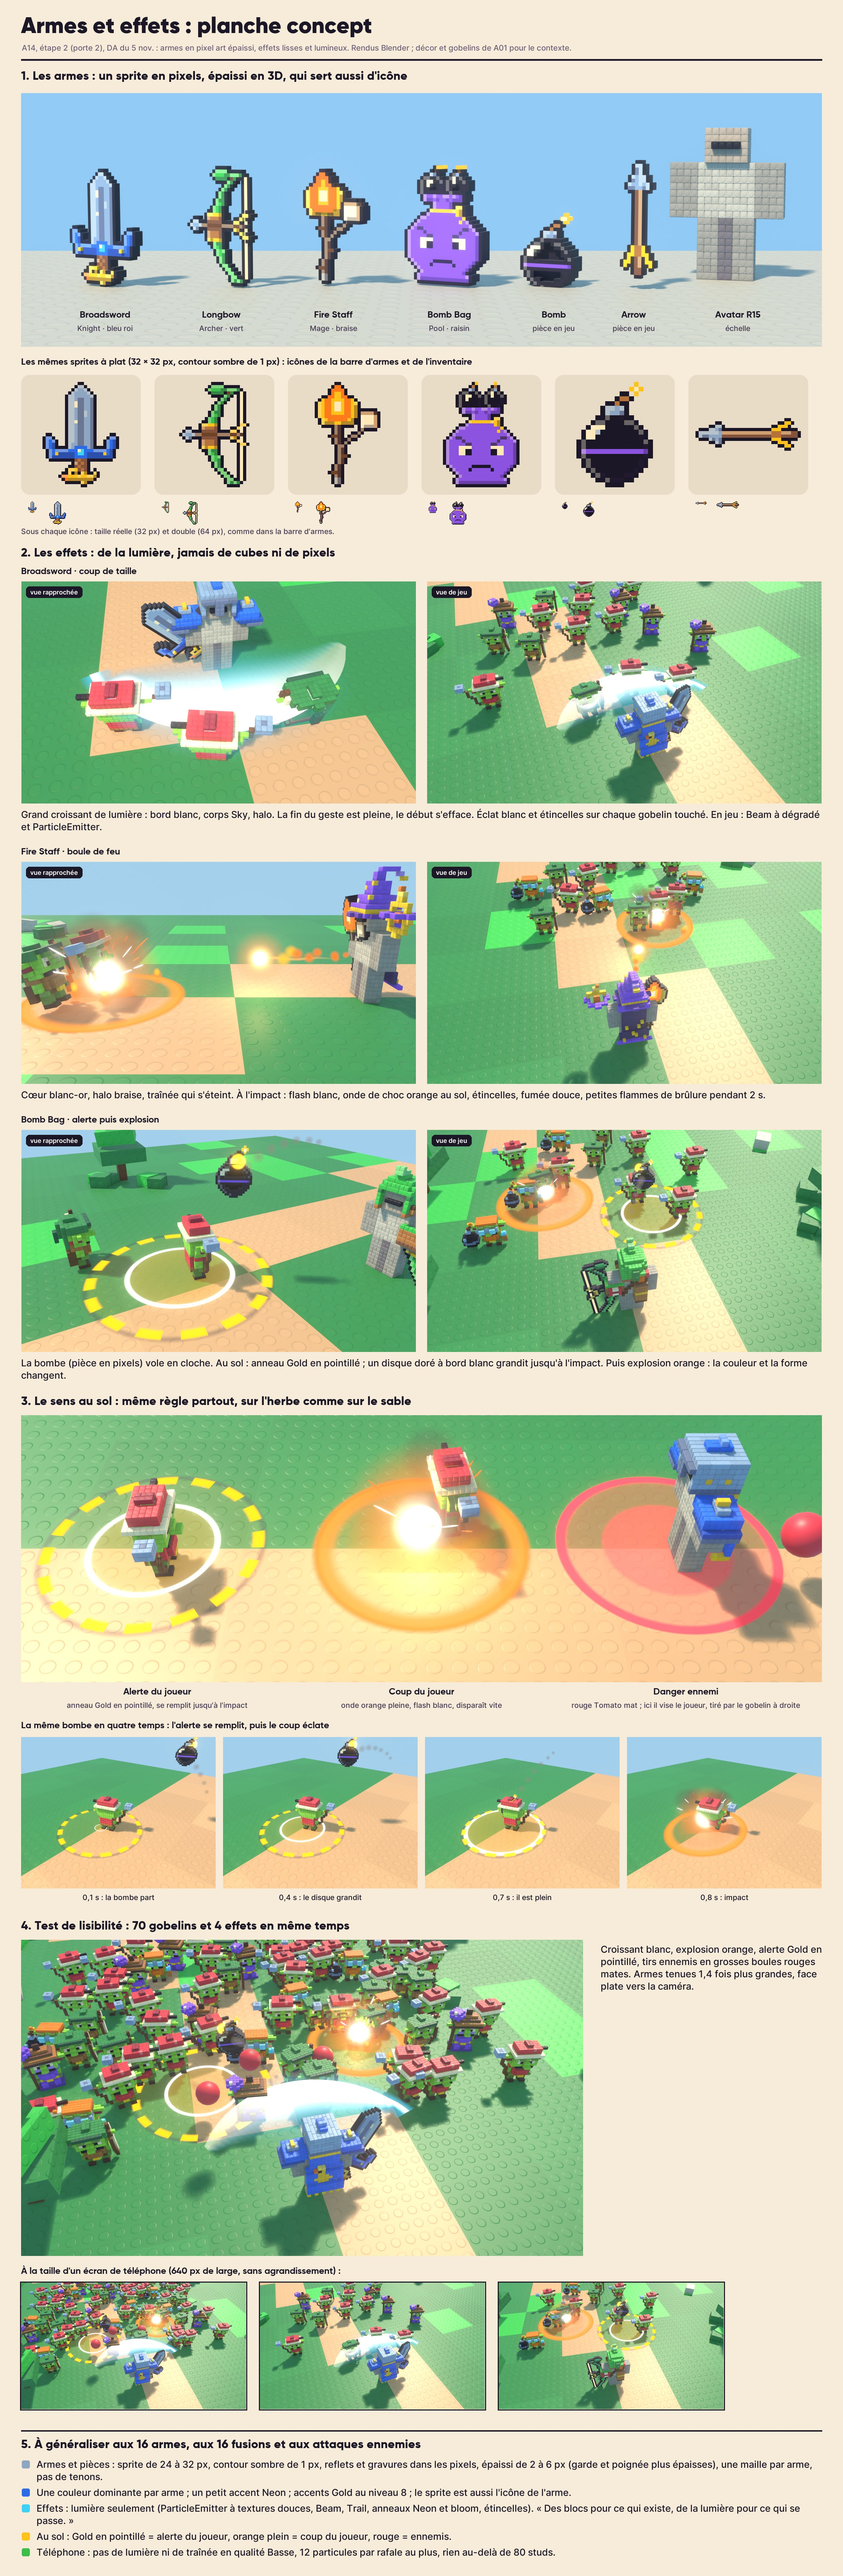
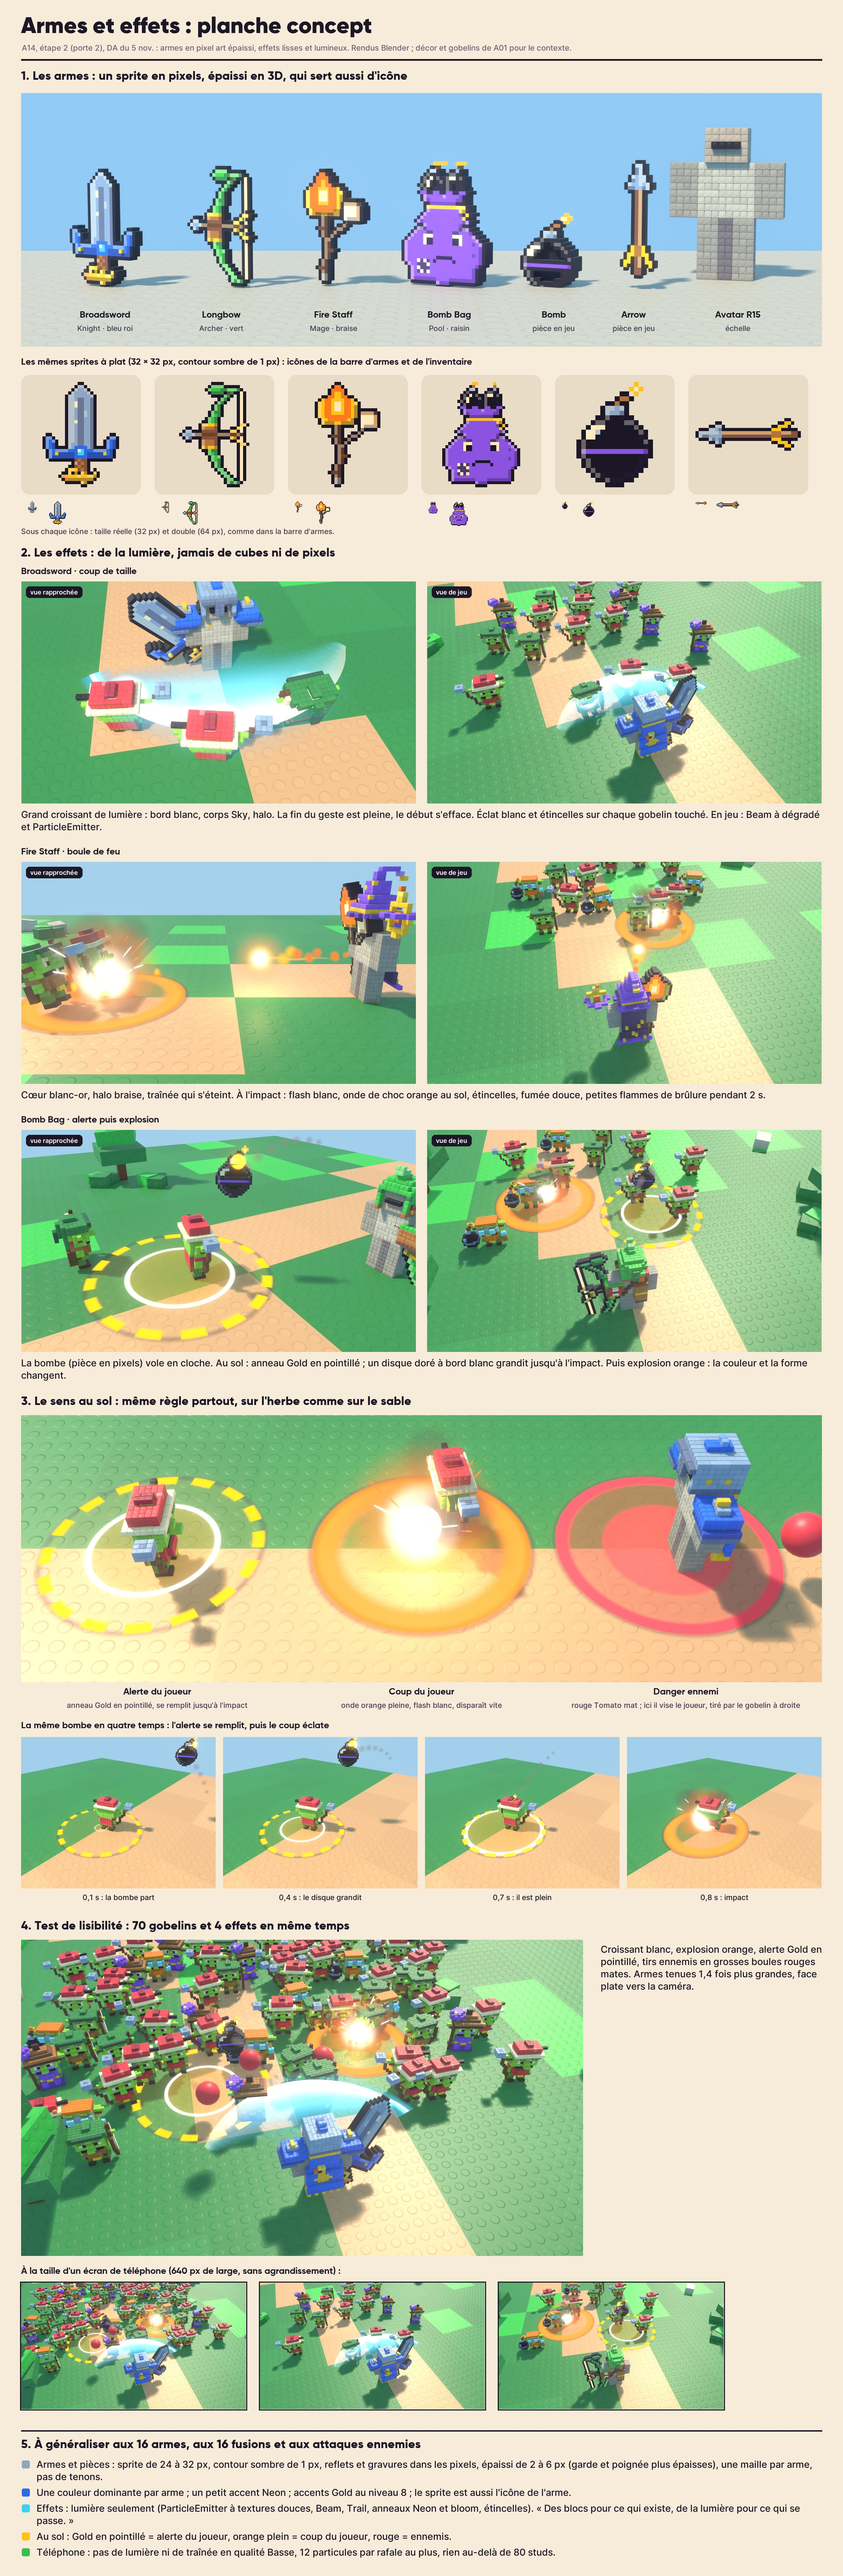
A14 : planche porte 2 corrigée après relecture, icônes d'armes pour A08
Armes tenues plus grandes et face à la caméra, sac de bombes redessiné, croissant
teinté Sky, explosion et danger ennemi cernés de sombre, danger ennemi en rouge
franc avec sa source visible, icônes à taille réelle et vignettes téléphone sur
la planche. Icônes 512 px (trois-quarts et à plat) des 4 armes dans
docs/dossier/ui-assets/icons/weapons/ pour A08.

diff --git a/assets/a14/concept.py b/assets/a14/concept.py
@@ -61,7 +61,7 @@ class Sprite:
         self.fixed: set = set()               # pixels peints à la main : l'ombrage auto n'y touche pas
 
     def set(self, x, y, key, fixed=True):
-        if -1 <= x <= self.w and -1 <= y <= self.h:   # une marge d un pixel pour le contour
+        if -2 <= x <= self.w + 1 and -2 <= y <= self.h + 1:   # une marge d un pixel pour le contour
             self.px[(x, y)] = key
             if fixed:
                 self.fixed.add((x, y))
@@ -268,42 +268,50 @@ def firestaff() -> Sprite:
 
 
 def bombbag() -> Sprite:
-    """Bomb Bag (porteur et icône). Couleur dominante : raisin. Gros sac grognon au col court ficelé d'or,
-    ouverture froncée d'où dépassent deux bombes rondes, mèches Neon."""
+    """Bomb Bag (porteur et icône). Couleur dominante : raisin. Un sac de toile ventru, épaules, col serré
+    par une cordelette d'or, ouverture en pointes de tissu d'où dépassent deux bombes, une pièce cousue,
+    un air grognon (gag)."""
     s = Sprite("BombBag", 32, 32, grip=(16.0, 12.0))
     s.depth.update({"Grape": 5, "Gold": 5, "Ink": 4, "Cream": 5, "Leather": 2, "Plum": 5, "Steel": 4})
-    s.ell(12.5, 5.0, 3.6, 3.6, "Ink")                              # bombes (derrière l'ourlet)
-    s.ell(20.0, 4.5, 3.1, 3.1, "Ink")
-    for (x, y) in ((11, 3), (12, 3), (11, 4), (19, 3), (19, 2)):    # reflets
+    s.ell(12.8, 4.6, 3.4, 3.4, "Ink")                              # bombes, derrière l'ouverture
+    s.ell(19.6, 4.0, 2.9, 2.9, "Ink")
+    for (x, y) in ((11, 3), (12, 2), (11, 4), (18, 2), (19, 2)):    # reflets
         s.set(x, y, "Cream")
-    s.rect(12, 1, 13, 1, "Steel")                                  # capuchons et mèches
-    s.set(20, 1, "Steel")
-    s.set(13, 0, "Leather")
-    s.set(20, 0, "Leather")
-    s.ell(16.0, 21.0, 11.5, 9.5, "Grape")                          # panse large
-    s.rect(8, 29, 23, 30, "Grape")
-    s.rect(13, 9, 18, 12, "Grape")                                 # col court
-    s.rect(10, 7, 21, 8, "Grape")                                  # ourlet froncé
-    for x in (10, 13, 16, 19):
-        s.set(x, 7, "Grape.l")
-        s.set(x + 1, 8, "Grape.d")
-    s.rect(12, 11, 19, 11, "Gold")                                 # cordelette et nœud
-    s.rect(20, 10, 21, 12, "Gold")
+    s.rect(12, 0, 13, 0, "Steel")
+    s.set(20, 0, "Steel")
+    s.ell(16.0, 23.0, 12.2, 8.6, "Grape")                          # panse ventrue
+    s.rect(6, 28, 25, 30, "Grape")
+    for k, (x0, x1) in enumerate(((11, 20), (10, 21), (9, 22), (8, 23))):   # épaules
+        s.rect(x0, 11 + k, x1, 11 + k, "Grape")
+    s.rect(12, 9, 19, 10, "Grape.d", fixed=True)                   # col serré
+    s.rect(10, 7, 21, 8, "Grape")                                  # ouverture évasée
+    for x in (9, 10, 13, 14, 17, 18, 21, 22):                      # pointes de tissu
+        s.set(x, 6, "Grape")
+    s.rect(11, 10, 20, 10, "Gold")                                 # cordelette et nœud
+    s.rect(21, 10, 22, 11, "Gold")
+    s.set(23, 12, "Gold")
     s.set(22, 13, "Gold")
-    s.set(21, 14, "Gold")
-    s.rect(9, 19, 12, 21, "Cream")                                 # visage grognon
-    s.rect(19, 19, 22, 21, "Cream")
-    s.rect(11, 20, 12, 21, "Ink")
-    s.rect(19, 20, 20, 21, "Ink")
-    s.line((8, 16), (12, 18), "Plum")                              # sourcils froncés
-    s.line((23, 16), (19, 18), "Plum")
-    s.rect(13, 25, 18, 25, "Ink")                                  # bouche boudeuse
-    s.set(12, 26, "Ink")
-    s.set(19, 26, "Ink")
+    s.rect(8, 25, 11, 28, "Plum", fixed=True)                      # pièce cousue
+    for (x, y) in ((8, 25), (10, 25), (11, 26), (11, 28), (9, 28), (8, 27)):
+        s.set(x, y, "Cream")
+    s.rect(10, 18, 12, 20, "Cream")                                # visage grognon
+    s.rect(19, 18, 21, 20, "Cream")
+    s.rect(11, 19, 12, 20, "Ink")
+    s.rect(19, 19, 20, 20, "Ink")
+    s.line((9, 16), (12, 17), "Plum")
+    s.line((22, 16), (19, 17), "Plum")
+    s.rect(14, 24, 18, 24, "Ink")
+    s.set(13, 25, "Ink")
+    s.set(19, 25, "Ink")
+    for (x, y) in ((24, 17), (25, 20), (25, 23)):                  # coutures sur le flanc
+        s.set(x, y, "Grape.d")
     s.shade()
     s.outline()
-    s.set(14, -1, "Gold!")                                         # étincelles (au-dessus du contour)
-    s.set(20, -1, "Gold!")
+    s.set(13, -2, "Gold!")                                         # mèches qui crépitent
+    s.set(14, -2, "Gold!")
+    s.set(20, -2, "Gold!")
+    s.set(13, -1, "Leather")
+    s.set(20, -1, "Leather")
     return s
 
 
@@ -676,7 +684,7 @@ def swing(center, radius=8.0, half=70.0, height=2.9):
     core = ribbon(pts, widths, HX["Sky"], 1.8,
                   across=[(0.0, 1.0), (0.12, 1.0), (0.45, 0.7), (1.0, 0.0)],
                   along=[(0.0, 0.25), (0.5, 0.8), (0.9, 1.0), (1.0, 1.0)],
-                  color_stops=[(0.0, WHITE), (0.45, WHITE), (0.62, "BDF0FF"), (1.0, HX["Sky"])])
+                  color_stops=[(0.0, WHITE), (0.2, "D6F6FF"), (0.45, "8EE6FF"), (1.0, HX["Sky"])])
     return core
 
 
@@ -716,12 +724,13 @@ def blast(center, radius, seed=3, flames=0):
     étincelles, fumée douce. Disparaît en 0,5 s en jeu."""
     rnd = random.Random(seed)
     cx, cy = center
-    disc(center, radius, 0.06, HX["Ember"], 1.3,
-         [(0.0, 0.0), (0.72, 0.0), (0.86, 0.9), (0.93, 1.0), (1.0, 0.0)],
+    disc(center, radius + 0.2, 0.05, "2A1C3D", 0.0, [(0.0, 0.0), (0.9, 0.0), (0.95, 0.5), (1.0, 0.0)], matte=True)
+    disc(center, radius, 0.06, HX["Ember"], 1.4,
+         [(0.0, 0.0), (0.66, 0.0), (0.8, 0.95), (0.95, 1.0), (1.0, 0.0)],
          color_stops=[(0.0, HX["Ember"]), (0.9, "FF9A3C"), (1.0, HX["Ember"])])
     disc(center, radius * 0.95, 0.04, HX["Ember"], 1.0, [(0.0, 0.5), (0.6, 0.28), (1.0, 0.0)])
     glow_ball((cx, cy, 1.4), 0.9, "FFF2C4", 12.0)
-    sprite((cx, cy, 1.5), 3.0, WHITE, 4.0, stops=((0.0, 1.0), (0.3, 0.7), (1.0, 0.0)))
+    sprite((cx, cy, 1.5), 4.0, WHITE, 4.0, stops=((0.0, 1.0), (0.3, 0.75), (1.0, 0.0)))
     sprite((cx, cy, 1.6), 7.5, HX["Ember"], 1.15, stops=((0.0, 0.9), (0.45, 0.5), (1.0, 0.0)))
     for k in range(16):
         a = rnd.uniform(0, math.tau)
@@ -756,10 +765,11 @@ def telegraph(center, radius, progress=0.6, dashes=16):
 
 def danger(center, radius, progress=0.6):
     """Danger ennemi : rouge Tomato, sans Neon (peu lumineux) : bord net, zone translucide, remplissage."""
-    disc(center, radius, 0.07, HX["Tomato"], 0.6, [(0.0, 0.0), (0.88, 0.0), (0.92, 1.0), (0.98, 1.0), (1.0, 0.0)],
+    disc(center, radius + 0.2, 0.05, "2A1C3D", 0.0, [(0.0, 0.0), (0.9, 0.0), (0.95, 0.5), (1.0, 0.0)], matte=True)
+    disc(center, radius, 0.07, HX["Tomato"], 0.25, [(0.0, 0.0), (0.85, 0.0), (0.9, 1.0), (0.98, 1.0), (1.0, 0.0)],
          matte=True)
-    disc(center, radius, 0.05, HX["Tomato"], 0.3, [(0.0, 0.25), (0.9, 0.3), (1.0, 0.0)], matte=True)
-    disc(center, radius * progress, 0.06, HX["Tomato"], 0.5, [(0.0, 0.45), (0.9, 0.5), (1.0, 0.0)], matte=True)
+    disc(center, radius, 0.05, "B8202E", 0.1, [(0.0, 0.4), (0.9, 0.45), (1.0, 0.0)], matte=True)
+    disc(center, radius * progress, 0.06, HX["Tomato"], 0.2, [(0.0, 0.6), (0.9, 0.65), (1.0, 0.0)], matte=True)
 
 
 def enemy_shot(loc, direction):
@@ -865,7 +875,7 @@ def ground_split(sc):
 
 
 R_GRIP = Vector((-1.5, 0.125, 2.3))   # main droite du mannequin (studs, pieds à z 0)
-HELD_SCALE = 1.4                      # arme tenue un peu surdimensionnée : lisible à la caméra dézoomée
+HELD_SCALE = 1.7                      # arme tenue un peu surdimensionnée : lisible à la caméra dézoomée
 HELD = {                              # face plate du sprite vers la caméra (placée derrière le joueur)
     "sword": Euler((0.25, math.radians(-38), 0)),   # lame levée vers la droite de l écran
     "staff": Euler((0.15, math.radians(-6), 0)),
@@ -1070,6 +1080,30 @@ def view_legend(out):
     render(sc, out, res=(2400, 800), samples=48)
 
 
+def view_icons(out):
+    """Icônes pour A08 : chaque arme en léger trois-quarts de face, fond transparent, carré de 512 px.
+    Écrit <dossier>/icons/<Id>.png (le contour encre de l'interface est posé par A08)."""
+    from mathutils import Vector as V
+
+    outdir = os.path.join(os.path.dirname(out), "icons")
+    os.makedirs(outdir, exist_ok=True)
+    for name in ("Broadsword", "Longbow", "FireStaff", "BombBag"):
+        sc = fresh()
+        B.diorama_light(sc, sun_elev=40, sun_az=-30, strength=4.0, world="FFFFFF", world_strength=0.8)
+        root = place_weapon(SPRITES[name], (0, 0, 0), rot=Euler((math.radians(8), 0, math.radians(-22))))
+        bpy.context.view_layer.update()
+        pts = []
+        for ob in root.children:
+            pts += [ob.matrix_world @ V(c) for c in ob.bound_box]
+        lo = V((min(p.x for p in pts), min(p.y for p in pts), min(p.z for p in pts)))
+        hi = V((max(p.x for p in pts), max(p.y for p in pts), max(p.z for p in pts)))
+        mid = (lo + hi) / 2
+        size = max(hi.x - lo.x, hi.z - lo.z) * 1.12
+        B.camera(sc, (mid.x, mid.y - 30.0, mid.z), (mid.x, mid.y, mid.z), ortho=size)
+        sc.view_settings.view_transform = "Standard"
+        B.render(sc, os.path.join(outdir, f"{name}.png"), res=(512, 512), transparent=True, samples=32)
+
+
 def export_sprites(outdir):
     with open(os.path.join(outdir, "sprites.json"), "w", encoding="utf-8") as f:
         json.dump({name: fn().export() for name, fn in SPRITES.items()}, f)
@@ -1077,6 +1111,7 @@ def export_sprites(outdir):
 
 VIEWS = {"lineup": view_lineup, "swing": view_swing, "fireball": view_fireball, "bomb": view_bomb,
          "legend": view_legend, "sequence": view_sequence, "dense": view_dense,
+         "icons": view_icons,
          "sprites": lambda out: None}   # sprites.json seulement
 
 
@@ -1085,5 +1120,5 @@ if __name__ == "__main__":
     which, outdir = argv[0], os.path.abspath(argv[1])
     os.makedirs(outdir, exist_ok=True)
     export_sprites(outdir)
-    for name in ([v for v in VIEWS if v != "sprites"] if which == "all" else which.split(",")):
+    for name in ([v for v in VIEWS if v not in ("sprites", "icons")] if which == "all" else which.split(",")):
         VIEWS[name](os.path.join(outdir, f"a14_{name}.png"))

diff --git a/docs/dossier/12-armes-modeles-effets.md b/docs/dossier/12-armes-modeles-effets.md
@@ -490,7 +490,7 @@ Je ne touche pas aux fichiers de ces agents. Chaque demande est petite et sans r
 | A01 | DA §6 : « une couleur par arme » au lieu de « aux couleurs de la classe » ; télégraphes du joueur en Ember ou Gold | décision de Clément du 5 nov. |
 | A04 (option) | Envoyer les coups critiques (un bit dans un évènement existant) | effet de critique pour l'Archer et la Crit Rune |
 | A03 (option) | Distinguer gel et étourdissement (aujourd'hui un seul bit « arrêté », teinte givre) | le Quake Hammer et le Megaphone étourdissent, ils ne gèlent pas |
-| A08 | Icônes d'armes : utiliser les sprites de A14 (`assets/a14/sprites/<Arme>.png`, 32 px, et `@8x`, fond transparent, filtrage au plus proche), téléversés par A14 à la porte 3 ; 4 armes livrées avec la planche, les autres suivent | Clément : « le même sprite sert d'icône » |
+| A08 | Icônes d'armes livrées au format demandé par A08 (PNG carré 512 px, fond transparent, une arme par fichier nommée par son id) dans `docs/dossier/ui-assets/icons/weapons/` : `<Id>.png` = rendu du modèle en léger trois-quarts, `<Id>_flat.png` = le sprite à plat aux pixels nets. 4 armes livrées (Broadsword, Longbow, FireStaff, BombBag), les 12 autres à l'étape 3. Sprites natifs : `assets/a14/sprites/` | Clément : « le même sprite sert d'icône » |
 | A06 | Aucune ; l'arme tenue s'accroche à `RightGripAttachment` sans toucher à l'animation | — |
 
 Ce que je corrige moi-même dans `WeaponFX` (client, mon domaine, étape 4) : le style des carreaux de la tourelle, la couleur de `MiniBomb`, les télégraphes, et le clonage des objets au lieu des Parts fabriquées par script.
